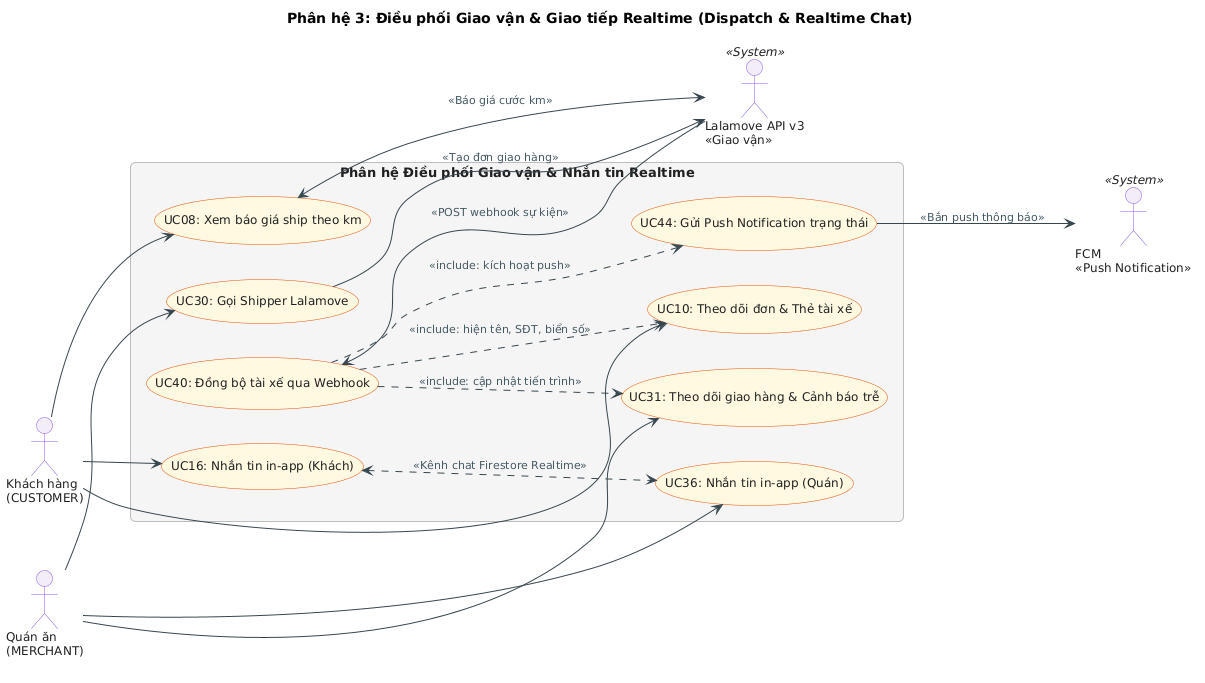
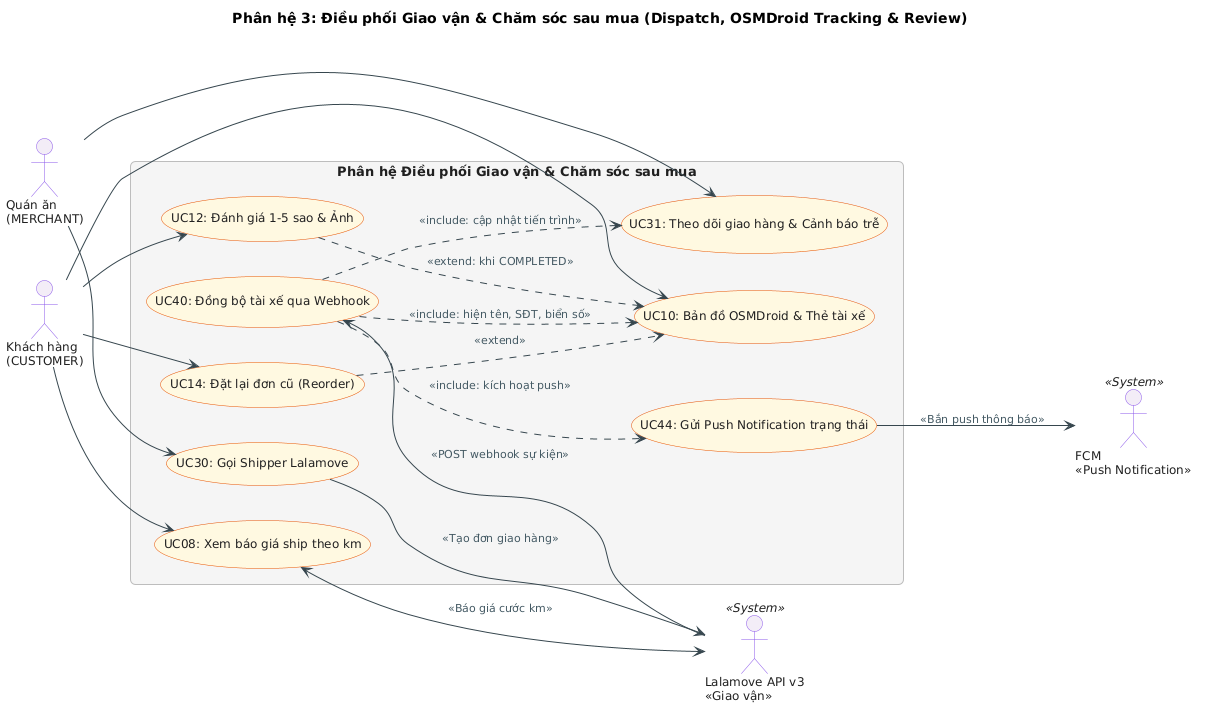
docs(diagrams): sync all PlantUML sources & re-render 18 PNG diagrams to match ZaloPay/ERD/Tracking code

diff --git a/docs/03-use-case-diagrams.md b/docs/03-use-case-diagrams.md
@@ -250,7 +250,7 @@ flowchart LR
 
 Phân hệ kết nối giữa Khách hàng, Quán và Đối tác vận chuyển Lalamove, đồng thời duy trì kênh liên lạc trực tiếp (in-app chat) trong suốt vòng đời đơn hàng.
 
-![Phân hệ 3: Điều phối Giao vận & Giao tiếp Realtime](diagrams/03-use-case-diagrams/04-Phan-he-giao-van-nhan-tin.png)
+![Phân hệ 3: Điều phối Giao vận & Chăm sóc sau mua](diagrams/03-use-case-diagrams/04-Phan-he-giao-van-nhan-tin.png)
 
 ```mermaid
 flowchart TB

diff --git a/docs/00-project-plan.md b/docs/00-project-plan.md
@@ -1,4 +1,4 @@
-# 🐱 MiaoSong (喵送) — Master Plan v3
+# 🐱 MiaoSong (喵送) — Master Plan v3
 
 > Đề tài: Nền tảng đặt món & điều phối giao hàng tự động (D2C F&B) · Môn Phát triển ứng dụng di động HK1/2026-2027
 > Nhóm **2 người** · **12 ngày (20/11 → 01/12/2026)** · Đầu ra: app Android tải từ CH Play
